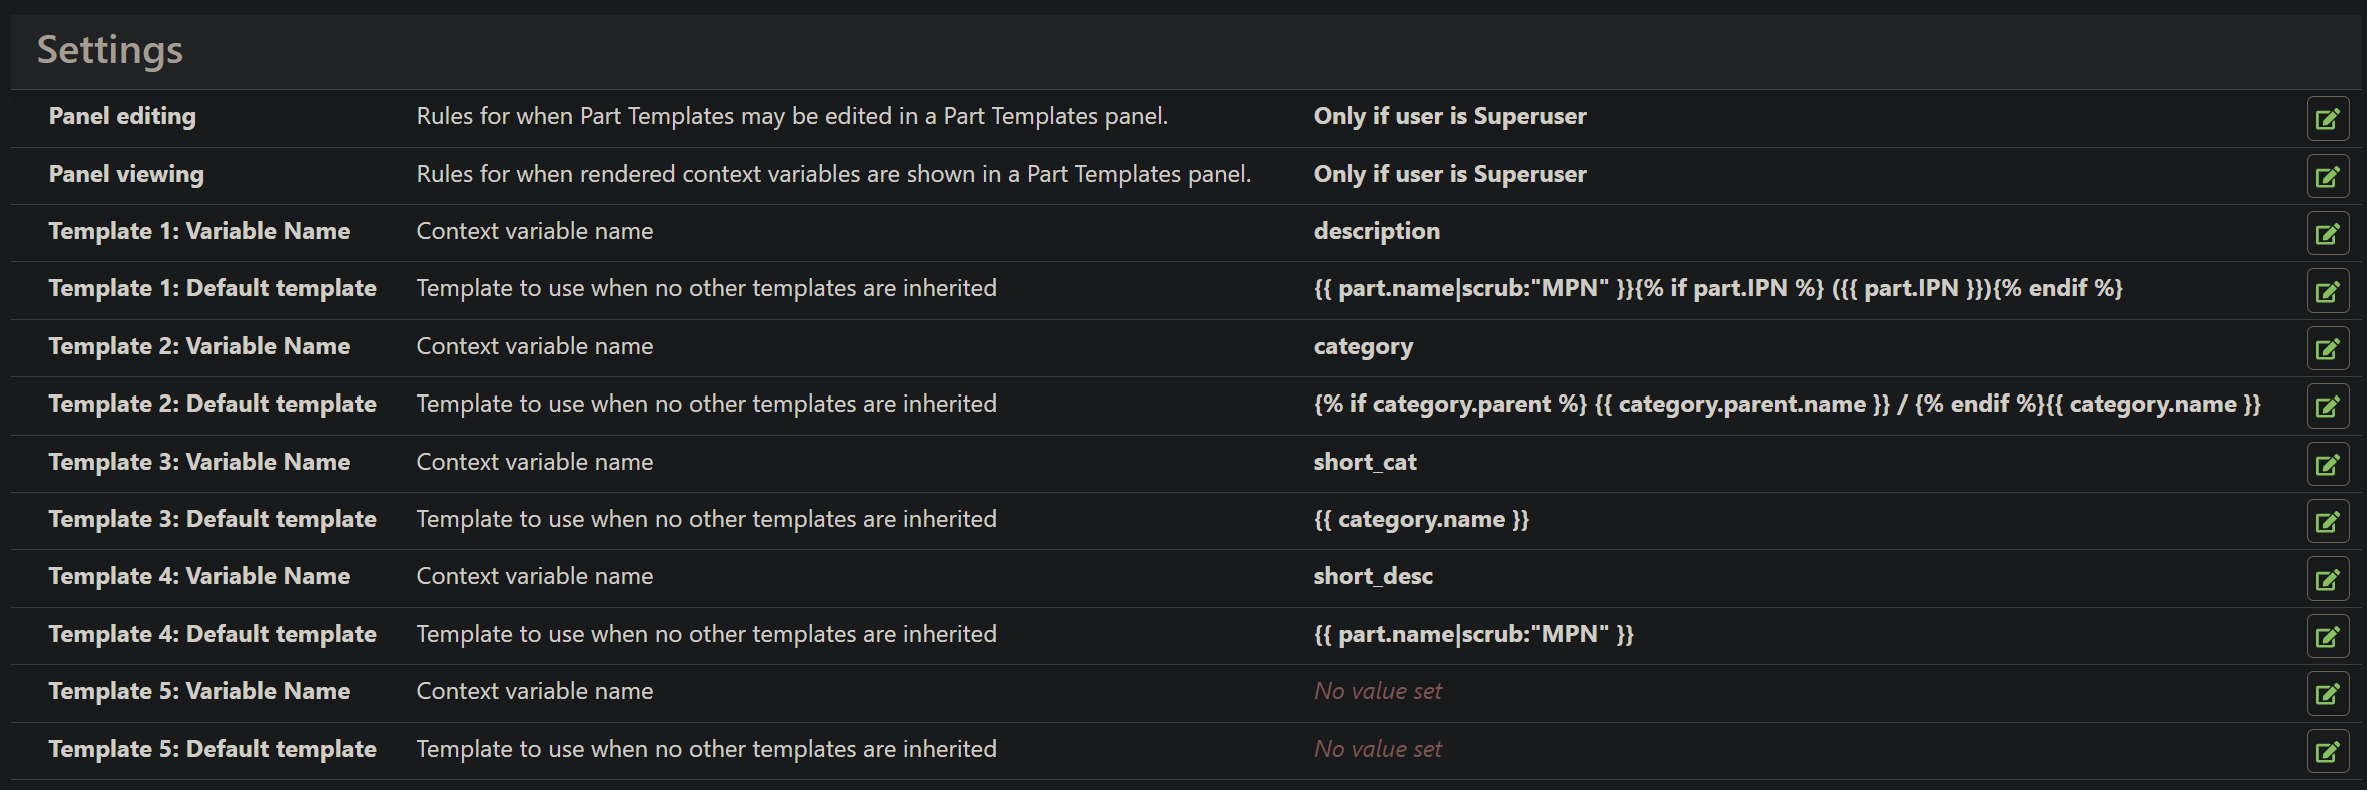
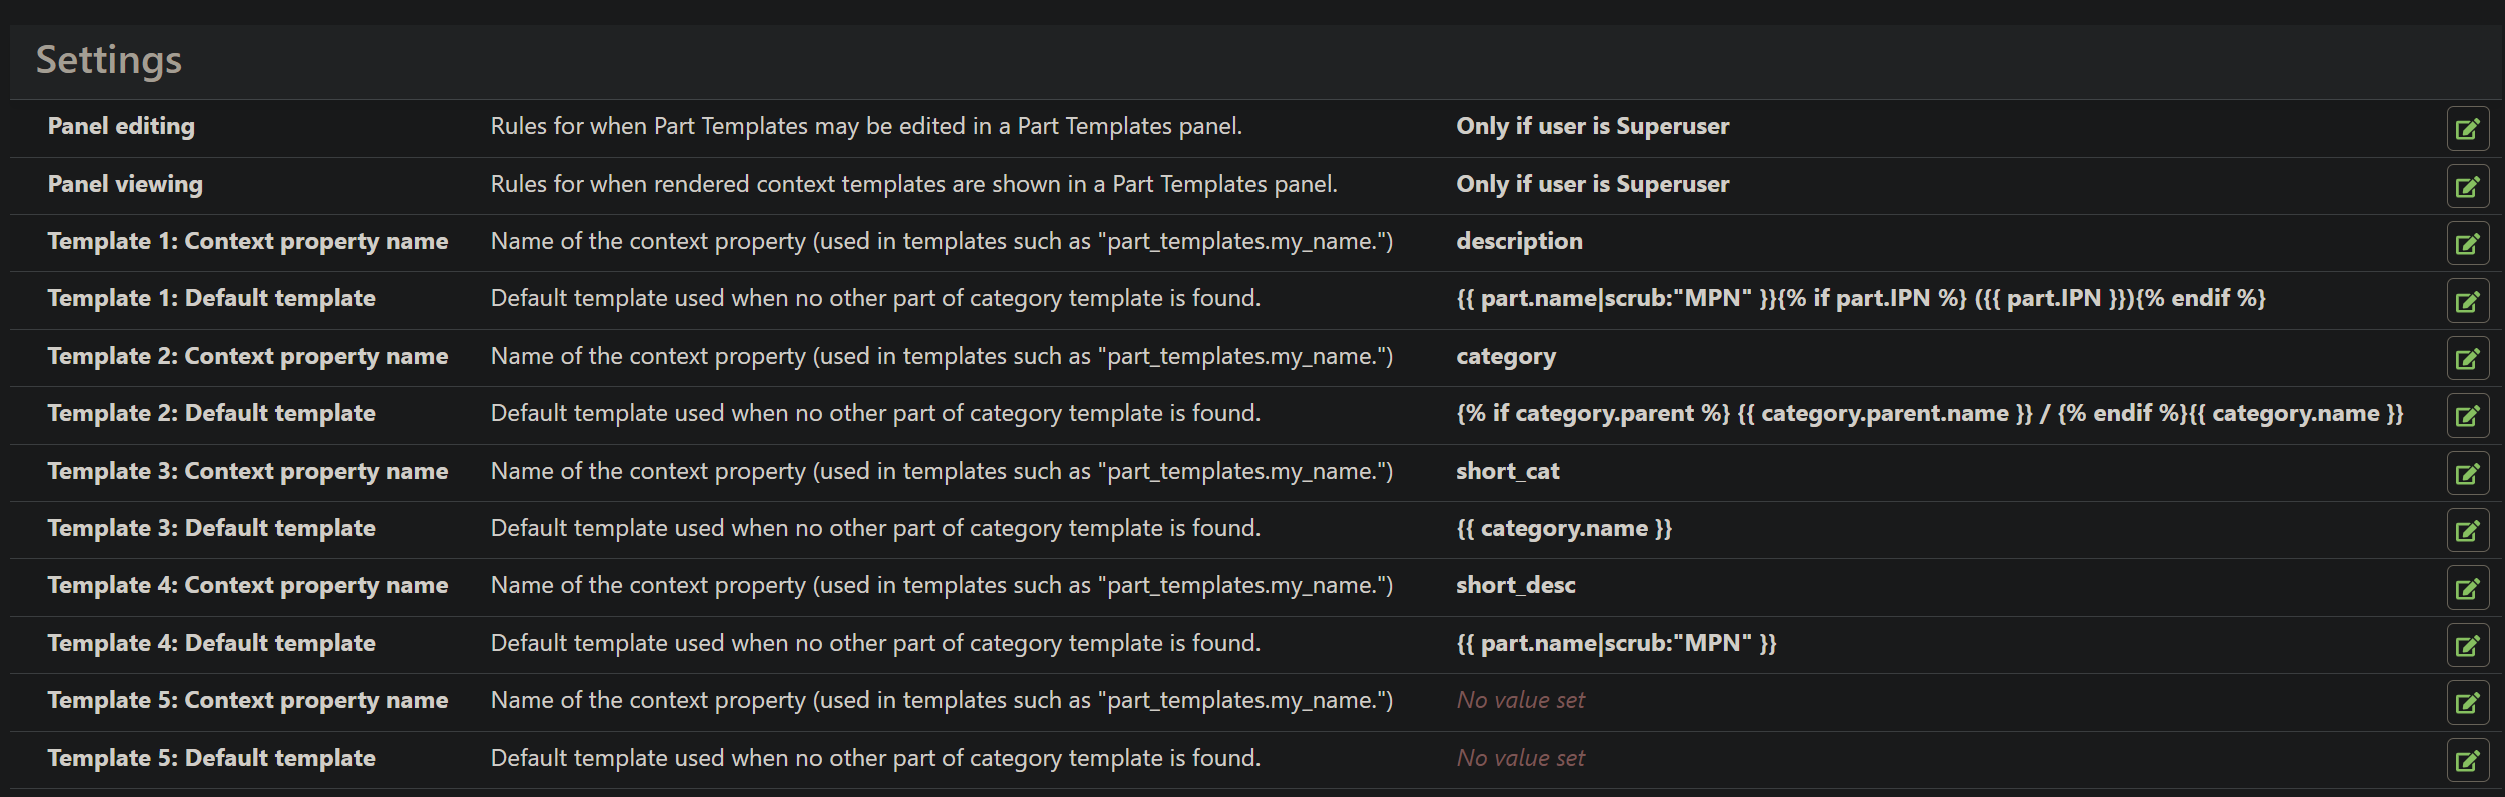
Documentation updates

diff --git a/README.md b/README.md
@@ -124,91 +124,135 @@ settings for rights to manage templates:
 <img alt="InvenTree Part Templates Settings page"
 src="https://github.com/cmidgley/inventree-part-templates/raw/main/docs/settings.png">
 
-In here you can specify the name and default template for up to five context properties.
+The first two fields control access rights to seeing and editing the templates on Category and Part
+pages.  If both rights are disabled (edit and view) then the Part Templates panel will not be
+included on the page.
+
+The remaining ten fields are for definining the name and default template for up to five context properties.
+
+## Using in labels and reports
+
+With the plugin installed and some context properties defined, we can now update our reports and
+labels to use them.  At this point they will just have the values from the default template, but as
+category and part specific templates are added, they will automatically change their content
+accordingly.  By adding them to your labels and reports now, you can tune and adjust your context
+property templates to meet your usability and sizing requirements.
+
+It is very simple to adjust a template to use context properties.  Simply open your template in any
+text editor and use the syntax `{{ part_templates.<your_context_property_name> }}` and then upload
+it to your label or report.  
+
+Now you should be able to print your report or label, such as to the InvenTree PDF Label Printer to
+see it on the screen and see the default template for your context property work.
+
+## Context templates
+
+The next step is to adjust the template value so that it is contextually appropriate.  This is
+usually done on Catalog items, but can be done on individual parts as well.  For example, if you
+have the catalog structure `Electronics / Passives / Capacitors / Aluminum`, you might want a
+context template on `Capacitors` so you can have values specific to capacitors, but is shared across
+all the different types of capacitors (Aluminum, Tantalum, MLCC, etc.)
+
+On the Part and Category pages, assuming you have rights to see and edit the Part Templates (see
+[Plugin Settings](#plugin-settings)), you should see a new "Part Templates" panel.  On Part
+templates, you will see the following:
+
+<img alt="InvenTree Part Templates Panel"
+src="https://github.com/cmidgley/inventree-part-templates/raw/main/docs/part-templates-panel.png">
+
+This panel includes the context properties, the value that each property will resolve to when the
+template is applied on this specific part, and the template that is being used (including if
+inherited) for this part.
 
 
+When looking at a Catalog item, you don't have the value, because there is no part directly
+associated with a catalog item:
 
-## Current status
+<img alt="InvenTree Catalog Templates Panel"
+src="https://github.com/cmidgley/inventree-part-templates/raw/main/docs/catalog-templates-panel.png">
 
-__Latest update: this update is as of April 18, 2024.__
+Use the edit buttons on the right (edit, delete) to adjust the templates for this specific catalog /
+part template.
 
-This project is currently operating in production and working well.  The documentation however is
-still in development.  If you try it and find any issues, or have suggestions for improvement,
-please open a GitHub issue to discuss.  It is not currently on PyPI, but does conform to the PIP
-install format so adding this to `plugins.txt` (or via the console) via
-`https://github.com/cmidgley/inventree-part-templates.git`.  
+## Template context variables and filters
 
-Very short set of steps:
-1) Install by adding `https://github.com/cmidgley/inventree-part-templates.git` to `plugins.txt` and
-   restart the server
-2) Visit settings / Plugin settings / InvenTree Part Templates, and add whatever context properties /
-   default templates you want.  
-3) Visit any part or category and there should be a new Part Templates panel.  Use this panel to
-   add/update/remove templates for created context properties.
-4) Update your label / report templates to use the context properties via `{{ part_templates.<your
-   property name> }}`
+The context templates are standard InvenTree/Djago templates, and support several context variables
+and a few new filters. The context variables are:
 
+- `part`: The current report/label [part](https://docs.inventree.org/en/stable/report/context_variables/#part)
+- `category`: The current [part category](https://docs.inventree.org/en/stable/report/context_variables/#part-category)
+- `parameters`: A shorthand for `part.parameters`
+- `stock`: The current [stock
+  item](https://docs.inventree.org/en/stable/report/context_variables/#stock), if being reported on.
+  If not, such as a part report where there is no specific stock, this will be empty.  Use `{% if
+  stock %}` if needing to check for availability.
 
-## Coming soon
+The additional filters are:
 
-- Installation
-- Setup
-- Defining templates
-- Template filters
-- Parameter cleansing
-- Samples and best practices
+- `item:"<name>`: Retreives a property name from a dictionary, and [scrubs](#parameter-scrubbig) it
+  is filters exist.  `{{ parameters|item:"Rated Voltage" }}`
+- `value:"<name>`: Retreives a propery name from a dictionary, without any scrubbing.
+- `scrub:"<name>"`: [Scrubs](#parameter-scrubbing) the prior string using a filter.  `{{
+  part.name|scrub:"MPN" }}`
 
-<!--
+Some examples:
 
-### Defining context properties 
+- Resistor description: `{{ parameters|item:"Resistance" }} {{ parameters|item:"Rated Power" }} {{
+  parameters|item:"Tolerance" }} {{ parameters|item:"Mounting Type" }} {{ parameters|item:"Package
+  Type" }}`
+- Resistor short category: `RES`
+- Capacitor description: `{{ parameters|item:"Capacitance"}} {{parameters|item:"Tolerance"}} {{
+  parameters|item:"Rated Voltage" }} {{ parameters|item:"Mounting Type" }} {{
+  parameters|item:"Package Type" }}`
+- Capacitor short category: `CAP`
+- Capacitor / Tantalum short category: `CAP TANT`
+- Conditional example: `{{ parameters|item:"Supply Voltage" }} {% if not parameters|item:"Supply
+  Voltage" %}{{ parameters|item:"Input Voltage" }} {% endif %} {{ parameters|item:"Type" }}`
 
-### Defining templates on catalog and part
+# Parameter scrubbing
 
-### Template filters
-(also load, and difference in use on context property template vs. label/report template)
+__Coming soon...___
 
-### Filtering parameters with `part_templates.yaml`
+> Latest documentation update: April 18 2024
 
-* document the yaml file (and [RegEx tester recommenation](https://regex101.com/))
-(also env. variable)
+# Example labels
 
-### Errors and best practice
-* document the 'error' property
-* document a recommend label/report structure to test for existance
+See the [example
+labels](https://github.com/cmidgley/inventree-part-templates/tree/main/example_labels) folder for
+some examples labels made for the Brother QL-810W label printer.  These labels are designed to use
+29mm endless tape, and have three sizes:
 
-### Example labels
+- `inventree-label-part-29mm`: A full width label with long descriptions and detailed category
+  names.  Set the label width to 52 and height to 27 in the part label settings.
+- `inventree-label-part-16mm`: A narrow and long label, such as for placing on the edge of a
+  container.  Has a horizontal cut line since it has to be manually cut (if you use 12mm endless
+  tape, it would be a simple change to this label).  Set the label width to 60 and height to 28.
+- `inventree-label-part-smdbox`: A very small label, sized to fit on those small, spring-hinged,
+  modular ["WENTAI"](https://www.adafruit.com/product/427) boxes.  Great example of the need for
+  short category names.  Set the label width to 15 and height to 26.
 
-## Installation
+  > The label width sets the cutting point of the label, and the height affects the scaling of the
+  > label.  A smaller height makes the label larger, and these sizes have been selected for a clean
+  > fit. 
 
+  These labels assume the following context properties are being used:
+  - `description`: A long contextual part description.
+  - `short-desc`: A shorter version of the part description, for the smaller labels.
+  - `category`: A descriptive category name
+  - `short-cat`: A very short category, maximum 6 characters per word, maximum two words.
 
+Notice in these labels the use of another property `part_templates.error`.  This is set whenever the
+templates are unable to be rendered, and makes it easier to debug why some templates are not
+working.  A best practice is to check for `part_templates` and also `part_templates.error` similar
+to the following:
 
-  
+```html
+{% if not part_templates %}
+    <div class="error">Plugin inventree-part-templates required</div>
+{% elif part_templates.error %}
+    <div class="error">{{ part_templates.error }}</div>
+{% else %}
+    ... your label here ...
+{% endif %}
 
-- **Heirarchical templates**: When a label or report is generated, the part that is
-  associated with it is used to locate the "cloest" template for each context variable.  This starts
-  with the part itself, then it follows the category heirarchy until it reaches the top, and finally
-  defaults to a value that you specify when creating the context property.
-
-
-  
-  Adjust the values these context properites use for templates
-  on categories (following the heirarchy) and when needed directly on parts.  Any property can be
-  overridden, with or without changing others, templates used for your context properties 
-  by category and even on the individual part.  For example, have resistors show resistance, wattage
-  and tolerance, whereas an MCU IC might show MHz, Cores and GPIO count.  Templates are inherited
-  following the InvenTree categories, simplifying the effort to configure contextual templates. 
-
-value of these context properties
-  can be built up from any property on `Part`, `Stock`, `Category`, and `Parameters`.  
-
-
-- **Filter and cleanse property values**: It's a fantastic time saver using other plugins that can
-  import parameters from supplies like DigiKey, Mouser and LCSC, but there are no standards on their
-  content.  Sometimes it's "SMD", others it's "Surface Mount", or occasionally ["Brick Nogging"](https://www.eevblog.com/forum/chat/where-does-all-the-weird-chinese-component-terminology-come-from/#msg4313581).
-  You can customize filters per parameter with a YAML file to cleanse these property values for a
-  consistent label/report experience.  No changes are made to the database, these filters are only
-  used for generating labels and reports.
-  
-For information on how to install, configure and use __inventree-part-templates__, see the plugin documentation
-[documentation](https://github.com/cmidgley/inventree-part-templates/blob/main/docs/toc.md).
--->
+```
